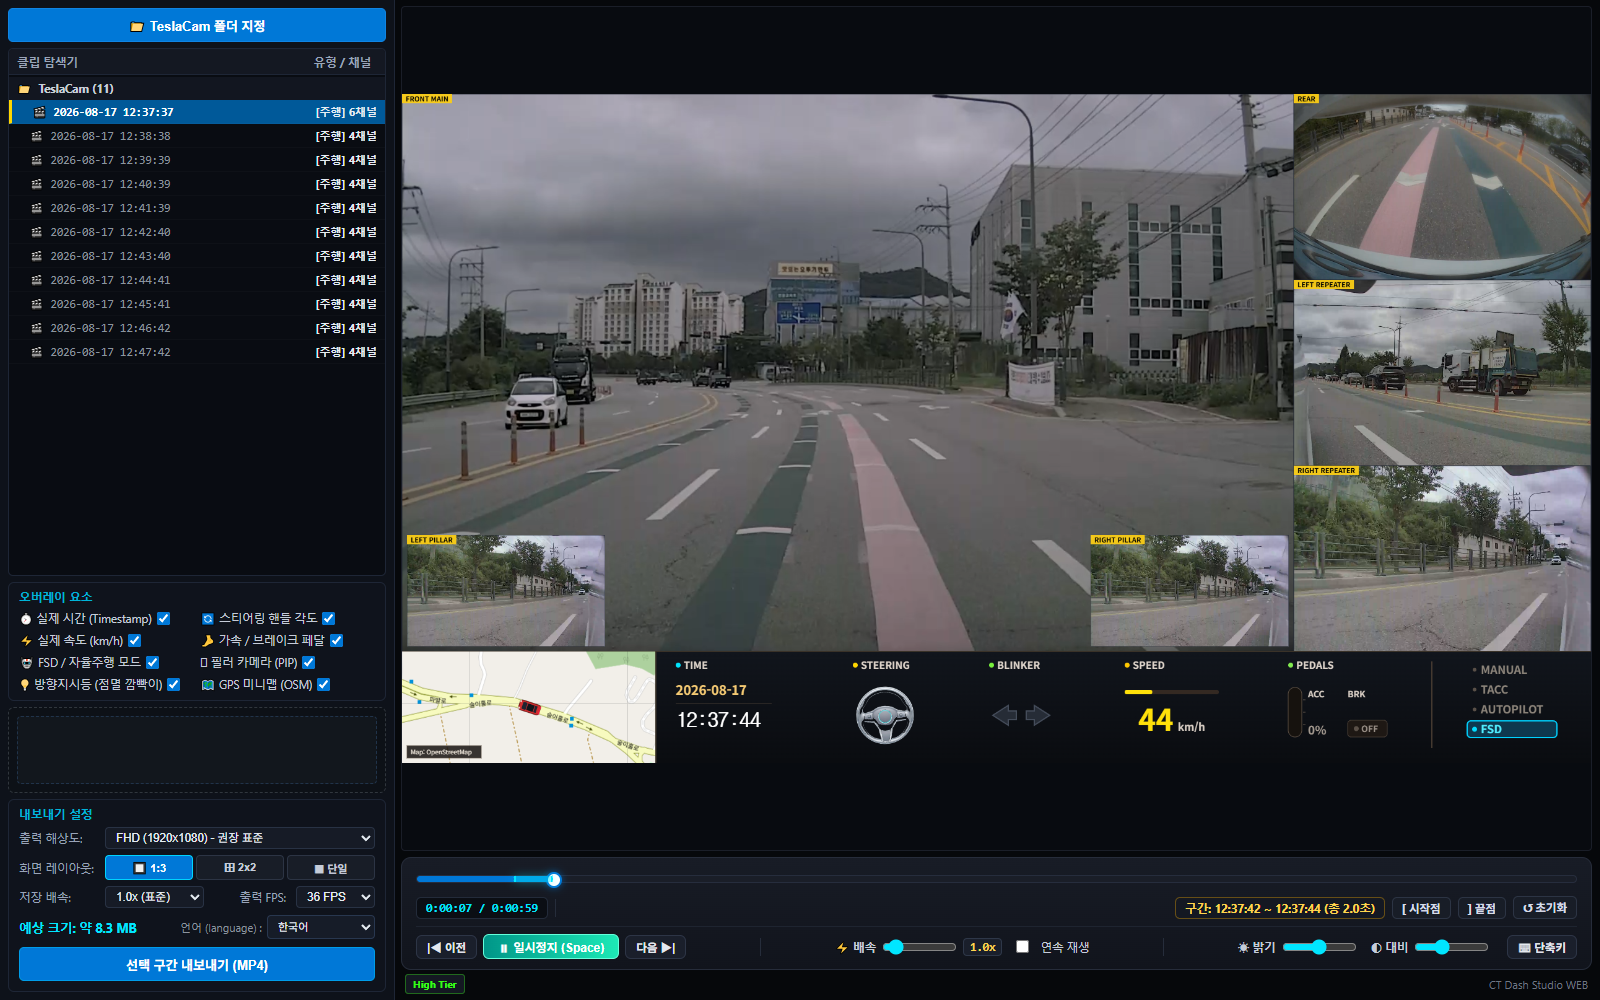
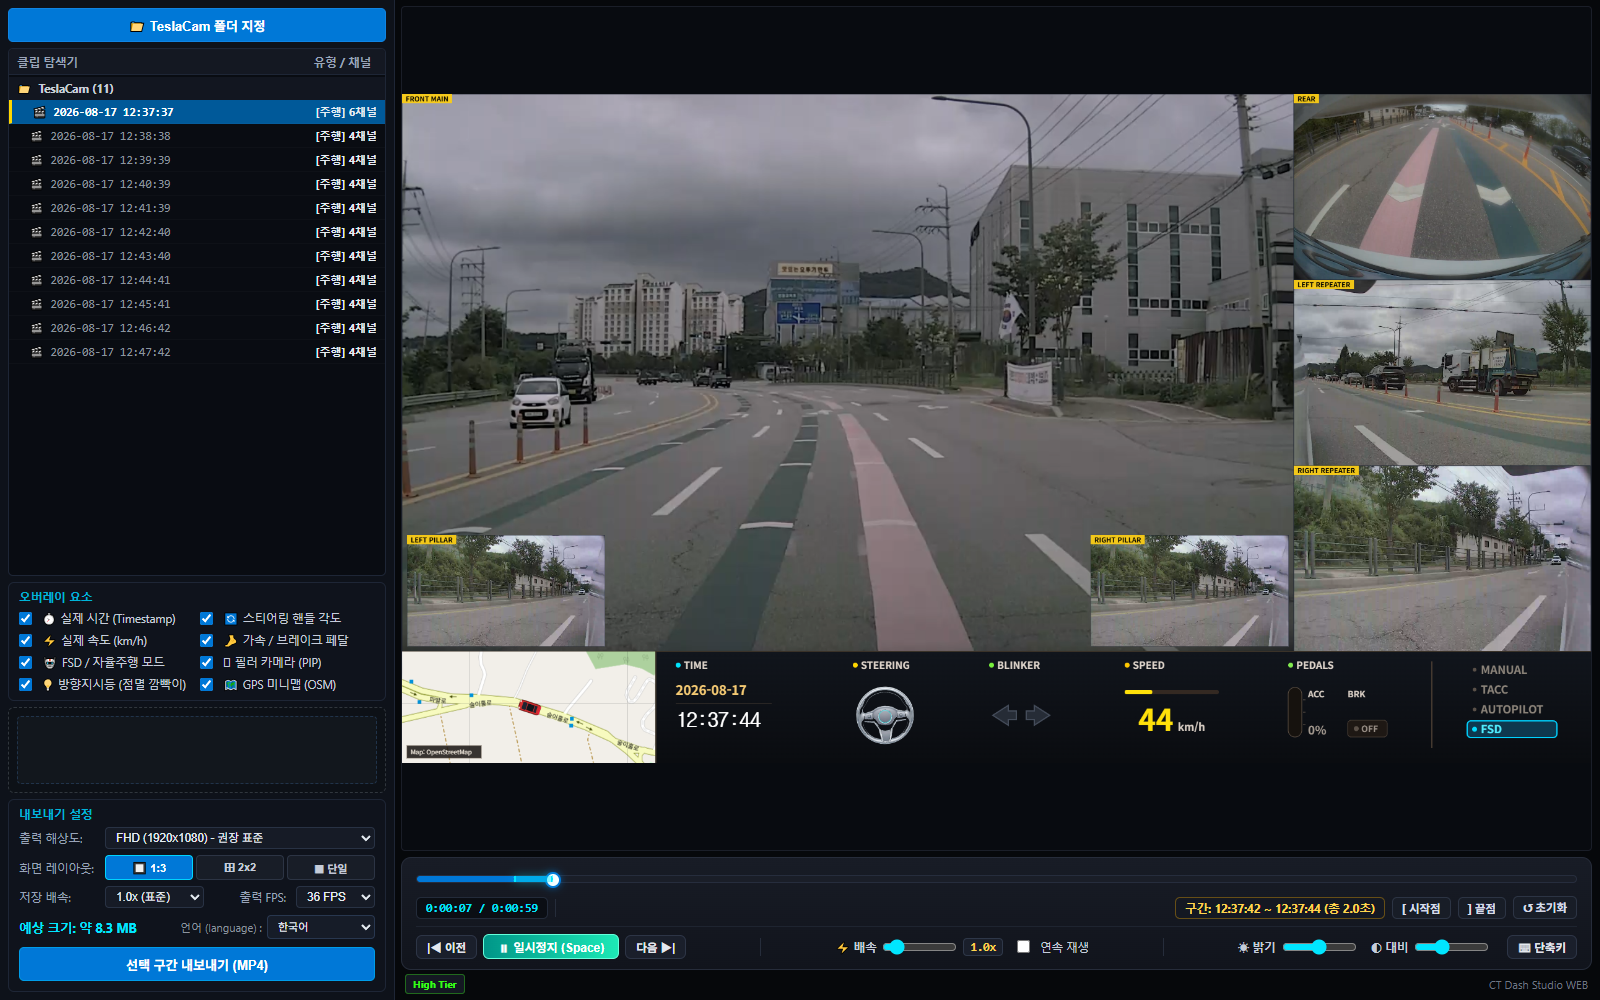
fix: restore standard left-aligned checkbox square for desktop overlay items

diff --git a/index.html b/index.html
@@ -75,36 +75,36 @@
               <div class="group-title">오버레이 요소</div>
               <div class="grid-2col">
                 <label class="chk-item">
-                  <span class="chk-label"><span class="chk-icon">⏱</span> 실제 시간 (Timestamp)</span>
                   <input type="checkbox" id="chk-timestamp" checked />
+                  <span class="chk-label"><span class="chk-icon">⏱</span> 실제 시간 (Timestamp)</span>
                 </label>
                 <label class="chk-item">
-                  <span class="chk-label"><span class="chk-icon">🔄</span> 스티어링 핸들 각도</span>
                   <input type="checkbox" id="chk-steering" checked />
+                  <span class="chk-label"><span class="chk-icon">🔄</span> 스티어링 핸들 각도</span>
                 </label>
                 <label class="chk-item">
-                  <span class="chk-label"><span class="chk-icon">⚡</span> 실제 속도 (km/h)</span>
                   <input type="checkbox" id="chk-speed" checked />
+                  <span class="chk-label"><span class="chk-icon">⚡</span> 실제 속도 (km/h)</span>
                 </label>
                 <label class="chk-item">
-                  <span class="chk-label"><span class="chk-icon">🦶</span> 가속 / 브레이크 페달</span>
                   <input type="checkbox" id="chk-pedal" checked />
+                  <span class="chk-label"><span class="chk-icon">🦶</span> 가속 / 브레이크 페달</span>
                 </label>
                 <label class="chk-item">
-                  <span class="chk-label"><span class="chk-icon">🤖</span> FSD / 자율주행 모드</span>
                   <input type="checkbox" id="chk-fsd" checked />
+                  <span class="chk-label"><span class="chk-icon">🤖</span> FSD / 자율주행 모드</span>
                 </label>
                 <label class="chk-item">
-                  <span class="chk-label"><span class="chk-icon">🪟</span> 필러 카메라 (PIP)</span>
                   <input type="checkbox" id="chk-pillar-pip" checked />
+                  <span class="chk-label"><span class="chk-icon">🪟</span> 필러 카메라 (PIP)</span>
                 </label>
                 <label class="chk-item">
-                  <span class="chk-label"><span class="chk-icon">💡</span> 방향지시등 (점멸 깜빡이)</span>
                   <input type="checkbox" id="chk-turn-signal" checked />
+                  <span class="chk-label"><span class="chk-icon">💡</span> 방향지시등 (점멸 깜빡이)</span>
                 </label>
                 <label class="chk-item">
-                  <span class="chk-label"><span class="chk-icon">🗺</span> GPS 미니맵 (OSM)</span>
                   <input type="checkbox" id="chk-map" checked />
+                  <span class="chk-label"><span class="chk-icon">🗺</span> GPS 미니맵 (OSM)</span>
                 </label>
               </div>
             </div>

diff --git a/src/style.css b/src/style.css
@@ -265,11 +265,22 @@ body {
   font-size: 11.5px;
   color: #c5ccd9;
   cursor: pointer;
+  white-space: nowrap;
 }
 
 .chk-item input[type="checkbox"] {
   accent-color: var(--accent-blue);
   cursor: pointer;
+  margin: 0;
+  flex-shrink: 0;
+  order: 0;
+}
+
+.chk-item .chk-label {
+  order: 1;
+  display: flex;
+  align-items: center;
+  gap: 4px;
 }
 
 .chk-item.disabled-feature {
@@ -1527,6 +1538,7 @@ kbd {
 
   body:not(.view-desktop) .chk-item .chk-label,
   body.view-mobile .chk-item .chk-label {
+    order: 1 !important;
     display: flex !important;
     align-items: center !important;
     gap: 8px !important;
@@ -1540,6 +1552,7 @@ kbd {
   /* Animated iOS/Android-style Toggle Switch */
   body:not(.view-desktop) .chk-item input[type="checkbox"],
   body.view-mobile .chk-item input[type="checkbox"] {
+    order: 2 !important;
     appearance: none !important;
     -webkit-appearance: none !important;
     width: 44px !important;
@@ -1959,6 +1972,8 @@ body.view-desktop .chk-item {
   background: transparent !important;
   border: none !important;
   min-height: unset !important;
+  white-space: nowrap !important;
+  gap: 5px !important;
 }
 
 body.view-desktop .chk-item input[type="checkbox"] {
@@ -1968,7 +1983,19 @@ body.view-desktop .chk-item input[type="checkbox"] {
   height: auto !important;
   background: transparent !important;
   border-radius: 0 !important;
-  margin-right: 6px !important;
+  margin: 0 !important;
+  margin-right: 5px !important;
+  order: 0 !important;
+  flex-shrink: 0 !important;
+}
+
+body.view-desktop .chk-item .chk-label {
+  order: 1 !important;
+  display: flex !important;
+  align-items: center !important;
+  gap: 4px !important;
+  font-size: 11.5px !important;
+  color: #c5ccd9 !important;
 }
 
 body.view-desktop .chk-item input[type="checkbox"]::after {
